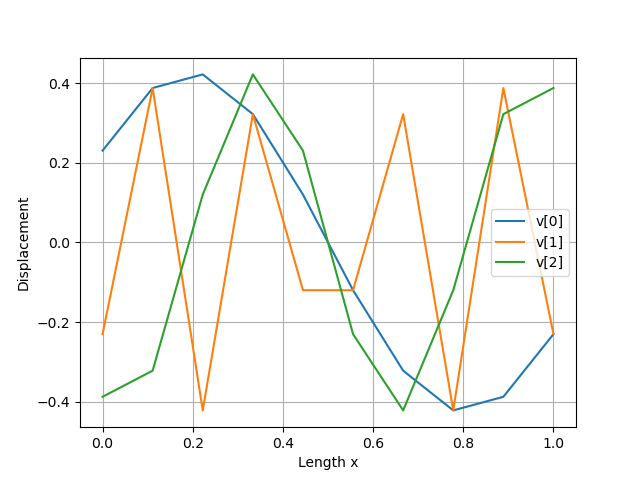
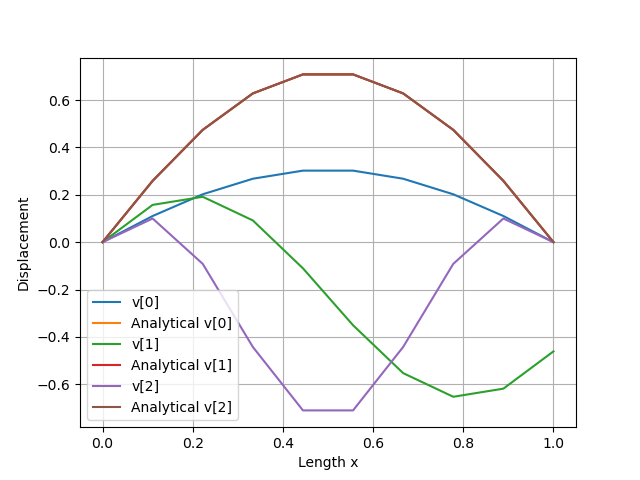
docstrings

diff --git a/project_2/plot_last.py b/project_2/plot_last.py
@@ -1,31 +1,6 @@
 import matplotlib.pyplot as plt
 import numpy as np
 
-"""
-38.4166
-0.23053
-0.387868
-0.422061
-0.322253
-0.120131
--0.120131
--0.322253
--0.422061
--0.387868
--0.23053
-
-445.583
--0.23053
-0.387868
--0.422061
-0.322253
--0.120131
--0.120131
-0.322253
--0.422061
-0.387868
--0.23053
-"""
 def magic(filename):
     lambda_ = [[]]
     v       = [[]]
@@ -52,22 +27,47 @@ def magic(filename):
     v = v[:-1]
     lambda_ = lambda_[:-1]
 
-    a, b = zip(*sorted(zip(lambda_, v))) # sort
+    lambda_, v = zip(*sorted(zip(lambda_, v))) # sort
+    print(v)
     #print(a)
+    N = len(v)
+    h = 1/(N+1)
+    a_py = -1/(h**2)
+    d_py =  2/(h**2)
+
+    lambda_py = []; [lambda_py.append(d_py + 2*a_py*np.cos(i*np.pi/(N+1))) for i in range(1,N)]
+    v_py = []; 
+    for i in range(1-1,N):
+        v_py.append([])
+        for j in range(1,N+1):
+            v_py[i].append(np.sin(j*np.pi/(N + 1)))
+    print(v_py)
+
+    """
+    def lowest(a, n): return np.partition(a, n-1)[:n] # find smalles 3 values
+    smoll = lowest(v_py, 3)
+    i_0 = np.where(v_py == smoll[0])[0][0]
+    i_1 = np.where(v_py == smoll[1])[0][0]
+    i_2 = np.where(v_py == smoll[2])[0][0]
+    i_a = [i_0, i_1, i_2] # analytical vectors
+    print(i_a)
+    """
+    lambda_py, v_py = zip(*sorted(zip(lambda_py, v_py)))
 
     x = []
     with open('linspace_'+filename+'.txt', 'r') as file:
         for line in file.readlines():
             l = line.split()
-            print(l)
+            #print(l)
             try: 
                 x.append(float(l[0]))
             except: 
                 pass
-
+    
     # Ploott
     for i in range(3):
-        plt.plot(x, v[i], label='v['+str(i)+']')
+        plt.plot(x, np.subtract(v[i], v[i][0]), label='v['+str(i)+']')
+        plt.plot(x, np.subtract(v_py[i], v_py[i][0]), label='Analytical v['+str(i)+']')
     
     plt.legend()
     plt.xlabel('Length x')

diff --git a/project_2/functions.cpp b/project_2/functions.cpp
@@ -262,6 +262,8 @@ arma::mat tridiagonal_matrix(double a, double d, double N)
         a          (double)          : values adjasent to diagonal 
         b          (double)          : diagonal
         N          (int)             : size of "side" of array
+    Returns: 
+        tri_matrix (armada matrix) : matrix defined by tridiag(a,d,a) with matrix size NxN
     */
 
     arma::mat tri_matrix(N, N);
@@ -329,6 +331,8 @@ arma::vec eigenvalues(double a, double d, int n)
         a (double) : elements adjasent to diagonal
         d (double) : diagonal
         n (int)    : size of vector
+    Returns:
+        values (armada vector) : vector containing eigenvalues
     */
     arma::vec values(n); 
 
@@ -345,6 +349,8 @@ arma::mat eigenvectors(int n)
     Finds the eigenvectors for matrix A = diag(a,d,a)
     Args:
         n (int) : size of side of matrix
+    Returns:
+        transposed (armada matrix) : transposed matrix containing analytical eigenvectors
     */
     arma::mat vectors(n,n);
     
@@ -368,6 +374,8 @@ double largest_off_element(arma::mat A, int& k, int& l, int n)
         k (int&)          : used to record index of max element (along y) 
         l (int&)          : used to record index of max element (along x)
         n (int)           : length of the matrix (matrix is nxn)
+    Returns:
+        max (doube) : max elements in matrix A
     */
     double max = -1;
     int null;

diff --git a/project_2/main.cpp b/project_2/main.cpp
@@ -42,6 +42,12 @@ int main()
 
     arma::mat R;
     R.eye(N,N);
+    
+    // Generate random N*N matrix
+    arma::mat A = arma::mat(N, N).randn();  
+
+    // Symmetrize the matrix by reflecting the upper triangle to lower triangle
+    A = arma::symmatu(A);  
 
     std::cout << R << "\n";
     arma::vec V(N);
@@ -79,6 +85,7 @@ int main()
 
     write_eig_to_file(V2, R2, n, "N_100");
     write_lin_to_file(x, n, "linspace_N_100");
+
 
     return 0;
 }
